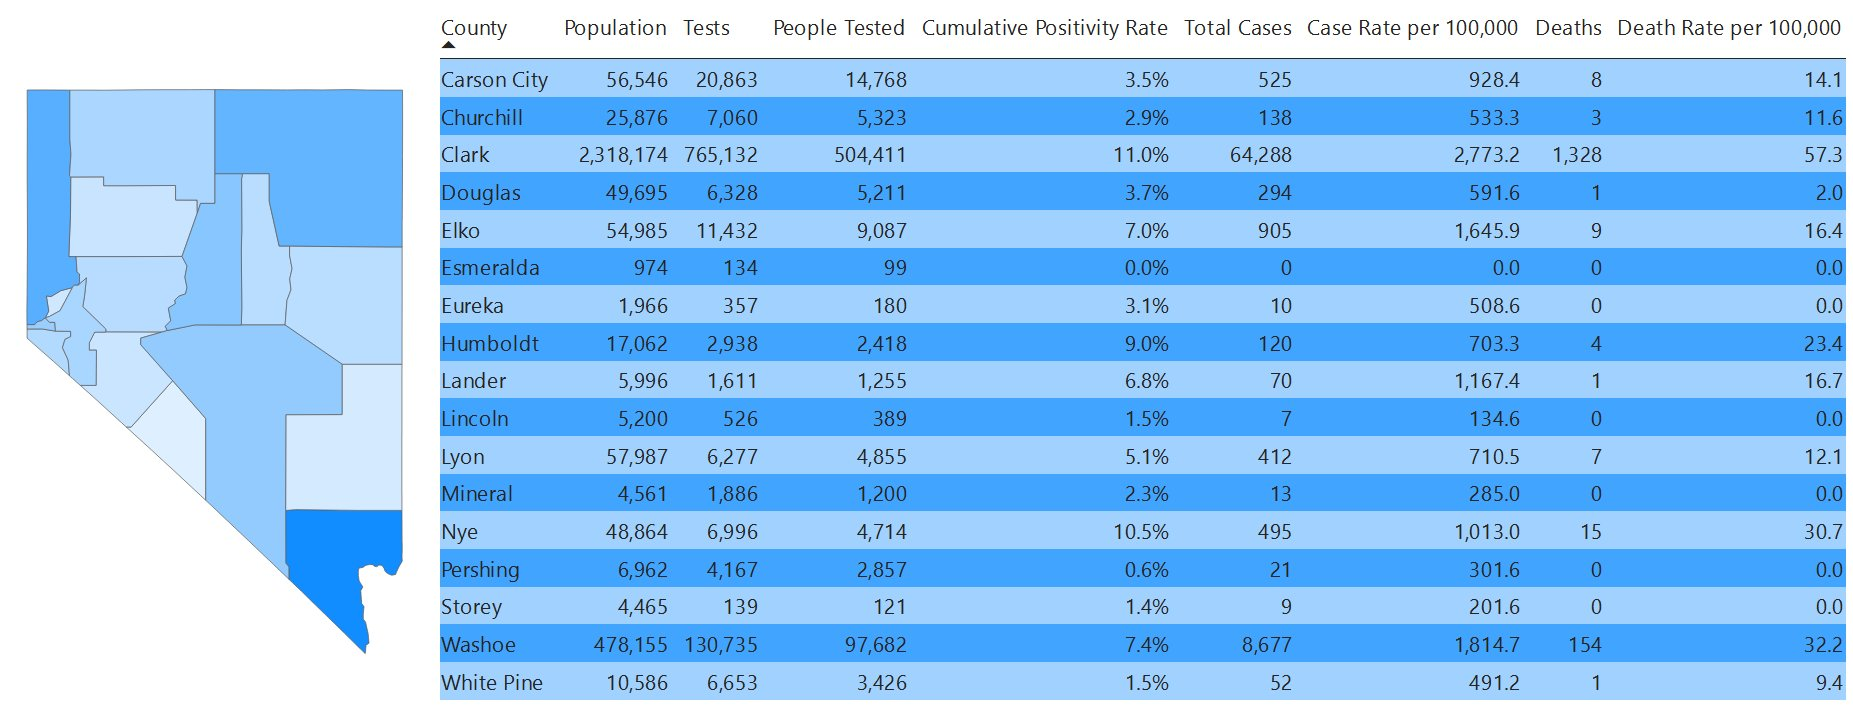
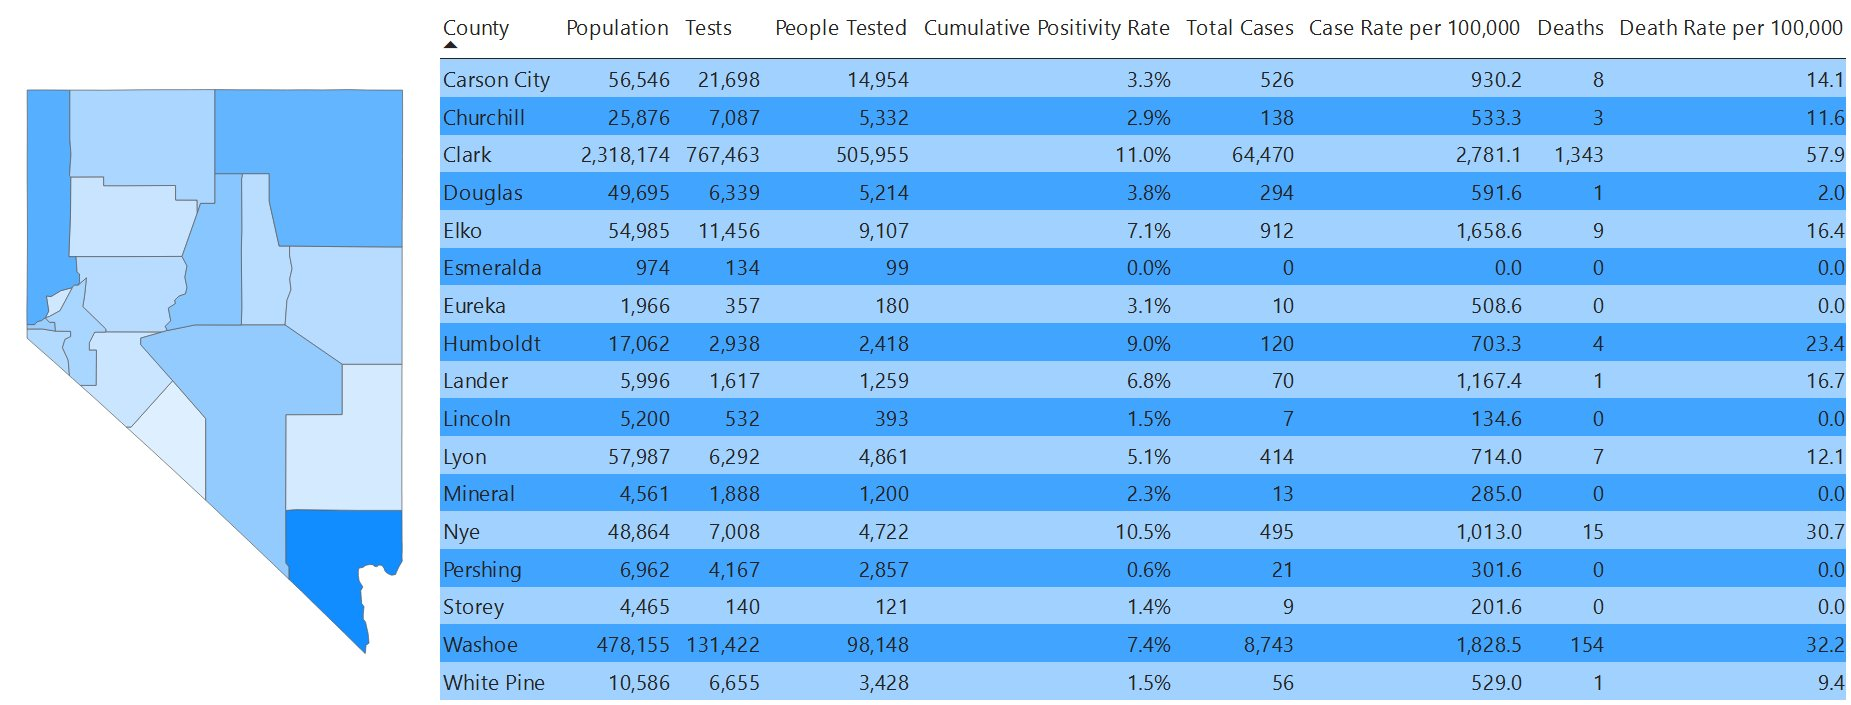
Day 202

diff --git a/src/pages/nevada.js b/src/pages/nevada.js
@@ -216,6 +216,7 @@ class NevadaPage extends Component {
 				'9/18/20',
 				'9/19/20',
 				'9/20/20',
+				'9/21/20',
 			],
 			datasets: [
 				{
@@ -422,6 +423,7 @@ class NevadaPage extends Component {
 						75419,
 						75804,
 						76036,
+						76298,
 					],
 					fill: false, // Don't fill area under the line
 					backgroundColor: '#933A16', // Line color
@@ -631,6 +633,7 @@ class NevadaPage extends Component {
 				'9/18/20',
 				'9/19/20',
 				'9/20/20',
+				'9/21/20',
 			],
 			datasets: [
 				{
@@ -838,6 +841,7 @@ class NevadaPage extends Component {
 						323,
 						385,
 						232,
+						262,
 					],
 					fill: false, // Don't fill area under the line
 					backgroundColor: '#933A16', // Bar color
@@ -1047,6 +1051,7 @@ class NevadaPage extends Component {
 				'9/18/20',
 				'9/19/20',
 				'9/20/20',
+				'9/21/20',
 			],
 			datasets: [
 				{
@@ -1236,23 +1241,24 @@ class NevadaPage extends Component {
 						1395,
 						1410,
 						1418,
-						1436,
-						1441,
-						1448,
-						1458,
-						1467,
-						1477,
-						1484,
-						1492,
+						1437,
+						1442,
+						1449,
+						1459,
+						1468,
+						1479,
+						1487,
 						1495,
-						1499,
-						1508,
+						1498,
+						1502,
 						1511,
-						1518,
-						1525,
-						1530,
-						1530,
+						1514,
+						1523,
 						1531,
+						1538,
+						1539,
+						1544,
+						1544,
 					],
 					backgroundColor: 'maroon',
 				},
@@ -1450,6 +1456,7 @@ class NevadaPage extends Component {
 				'9/18/20',
 				'9/19/20',
 				'9/20/20',
+				'9/21/20',
 			],
 			datasets: [
 				{
@@ -1628,23 +1635,24 @@ class NevadaPage extends Component {
 						6,
 						15,
 						8,
-						18,
+						19,
 						5,
 						7,
 						10,
 						9,
-						10,
-						7,
+						11,
+						8,
 						8,
 						3,
 						4,
 						9,
 						3,
+						9,
+						8,
 						7,
-						7,
+						1,
 						5,
 						0,
-						1,
 					],
 				},
 			],
@@ -1853,6 +1861,7 @@ class NevadaPage extends Component {
 				'9/18/20',
 				'9/19/20',
 				'9/20/20',
+				'9/21/20',
 			],
 			datasets: [
 				{
@@ -2061,6 +2070,7 @@ class NevadaPage extends Component {
 						10.0,
 						10.0,
 						10.0,
+						10.0,
 						null,
 					],
 				},
@@ -2266,10 +2276,11 @@ class NevadaPage extends Component {
 						6.8,
 						6.9,
 						6.8,
-						6.7,
+						6.6,
+						6.6,
+						6.9,
 						6.8,
 						7.1,
-						7.0,
 						null,
 					],
 				},
@@ -2347,6 +2358,7 @@ class NevadaPage extends Component {
 						null,
 						null,
 						null,
+						11.0,
 						11.0,
 						11.0,
 						11.0,
@@ -2691,6 +2703,7 @@ class NevadaPage extends Component {
 						6.1,
 						6.1,
 						6.1,
+						6.1,
 					],
 				},
 			],
@@ -2726,8 +2739,8 @@ class NevadaPage extends Component {
 										</div>
 									</div>
 									<div className='card-value pt-4'>
-										<h1>666,062</h1>
-										<h2 className='is_salmon'>+ 1,583</h2>
+										<h1>668,264</h1>
+										<h2 className='is_salmon'>+ 2,202590756</h2>
 									</div>
 								</div>
 							</div>
@@ -2739,8 +2752,8 @@ class NevadaPage extends Component {
 										</div>
 									</div>
 									<div className='card-value pt-4'>
-										<h1>590,756</h1>
-										<h2 className='is_salmon'>+ 1,376</h2>
+										<h1>592,776</h1>
+										<h2 className='is_salmon'>+ 2,020</h2>
 									</div>
 								</div>
 							</div>
@@ -2752,8 +2765,8 @@ class NevadaPage extends Component {
 										</div>
 									</div>
 									<div className='card-value pt-4'>
-										<h1>76,036</h1>
-										<h2 className='is_salmon'>+ 232</h2>
+										<h1>76,298</h1>
+										<h2 className='is_salmon'>+ 262</h2>
 									</div>
 								</div>
 							</div>
@@ -2765,8 +2778,8 @@ class NevadaPage extends Component {
 										</div>
 									</div>
 									<div className='card-value pt-4'>
-										<h1>1,531</h1>
-										<h2 className='is_salmon'>+ 0</h2>
+										<h1>1,544</h1>
+										<h2 className='is_salmon'>+ 15</h2>
 									</div>
 								</div>
 							</div>

diff --git a/src/pages/clarkcounty.js b/src/pages/clarkcounty.js
@@ -218,6 +218,7 @@ class ClarkPage extends Component {
 				'9/18/20',
 				'9/19/20',
 				'9/20/20',
+				'9/21/20',
 			],
 			datasets: [
 				{
@@ -425,6 +426,7 @@ class ClarkPage extends Component {
 						63877,
 						64160,
 						64288,
+						64470,
 					],
 				},
 			],
@@ -633,6 +635,7 @@ class ClarkPage extends Component {
 				'9/18/20',
 				'9/19/20',
 				'9/20/20',
+				'9/21/20',
 			],
 			datasets: [
 				{
@@ -840,6 +843,7 @@ class ClarkPage extends Component {
 						274,
 						283,
 						128,
+						182,
 					],
 				},
 			],
@@ -1028,6 +1032,7 @@ class ClarkPage extends Component {
 				'9/18/20',
 				'9/19/20',
 				'9/20/20',
+				'9/21/20',
 			],
 			datasets: [
 				{
@@ -1215,6 +1220,7 @@ class ClarkPage extends Component {
 						5912,
 						5921,
 						5934,
+						6018,
 					],
 				},
 			],
@@ -1402,6 +1408,7 @@ class ClarkPage extends Component {
 				'9/18/20',
 				'9/19/20',
 				'9/20/20',
+				'9/21/20',
 			],
 			datasets: [
 				{
@@ -1589,6 +1596,7 @@ class ClarkPage extends Component {
 						52,
 						9,
 						13,
+						84,
 					],
 				},
 			],
@@ -1797,6 +1805,7 @@ class ClarkPage extends Component {
 				'9/18/20',
 				'9/19/20',
 				'9/20/20',
+				'9/21/20',
 			],
 			datasets: [
 				{
@@ -2003,6 +2012,7 @@ class ClarkPage extends Component {
 						1327,
 						1329,
 						1328,
+						1343,
 					],
 					backgroundColor: 'maroon',
 				},
@@ -2200,6 +2210,7 @@ class ClarkPage extends Component {
 				'9/18/20',
 				'9/19/20',
 				'9/20/20',
+				'9/21/20',
 			],
 			datasets: [
 				{
@@ -2395,6 +2406,7 @@ class ClarkPage extends Component {
 						2,
 						2,
 						-1,
+						15,
 					],
 				},
 			],
@@ -2603,6 +2615,7 @@ class ClarkPage extends Component {
 				'9/18/20',
 				'9/19/20',
 				'9/20/20',
+				'9/21/20',
 			],
 			datasets: [
 				{
@@ -2807,8 +2820,9 @@ class ClarkPage extends Component {
 						7.4,
 						7.3,
 						7.3,
-						7.2,
-						7.2,
+						7.3,
+						7.1,
+						7.3,
 						null,
 						null,
 						null,
@@ -2887,6 +2901,7 @@ class ClarkPage extends Component {
 						null,
 						null,
 						null,
+						6.9,
 						6.9,
 						6.9,
 						6.9,
@@ -3233,6 +3248,7 @@ class ClarkPage extends Component {
 						3.9,
 						3.9,
 						3.9,
+						3.9,
 					],
 				},
 			],
@@ -3243,7 +3259,7 @@ class ClarkPage extends Component {
 			datasets: [
 				{
 					label: 'Age of Cases',
-					data: [1328, 5005, 8282, 30728, 12428, 6499],
+					data: [1335, 5013, 8293, 30815, 12473, 6524],
 					backgroundColor: [
 						'rgb(54, 162, 235)', //blue
 						'rgb(255, 99, 132)', //salmon
@@ -3261,7 +3277,7 @@ class ClarkPage extends Component {
 			datasets: [
 				{
 					label: 'Sex',
-					data: [32901, 31026, 361],
+					data: [32974, 31125, 371],
 					backgroundColor: [
 						'rgb(255, 99, 132)',
 						'rgb(54, 162, 235)',
@@ -3303,8 +3319,8 @@ class ClarkPage extends Component {
 											</div>
 										</div>
 										<div className='card-value pt-4'>
-											<h1>64,288</h1>
-											<h2 className='is_salmon'>+ 128</h2>
+											<h1>64,470</h1>
+											<h2 className='is_salmon'>+ 182</h2>
 										</div>
 									</div>
 								</div>
@@ -3316,8 +3332,8 @@ class ClarkPage extends Component {
 											</div>
 										</div>
 										<div className='card-value pt-4'>
-											<h1>5,934</h1>
-											<h2 className='is_salmon'>+ 13</h2>
+											<h1>6,018</h1>
+											<h2 className='is_salmon'>+ 84</h2>
 										</div>
 									</div>
 								</div>
@@ -3342,8 +3358,8 @@ class ClarkPage extends Component {
 											</div>
 										</div>
 										<div className='card-value pt-4'>
-											<h1>1,328</h1>
-											<h2 className='is_salmon'>- 1</h2>
+											<h1>1,343</h1>
+											<h2 className='is_salmon'>+ 15</h2>
 										</div>
 									</div>
 								</div>
